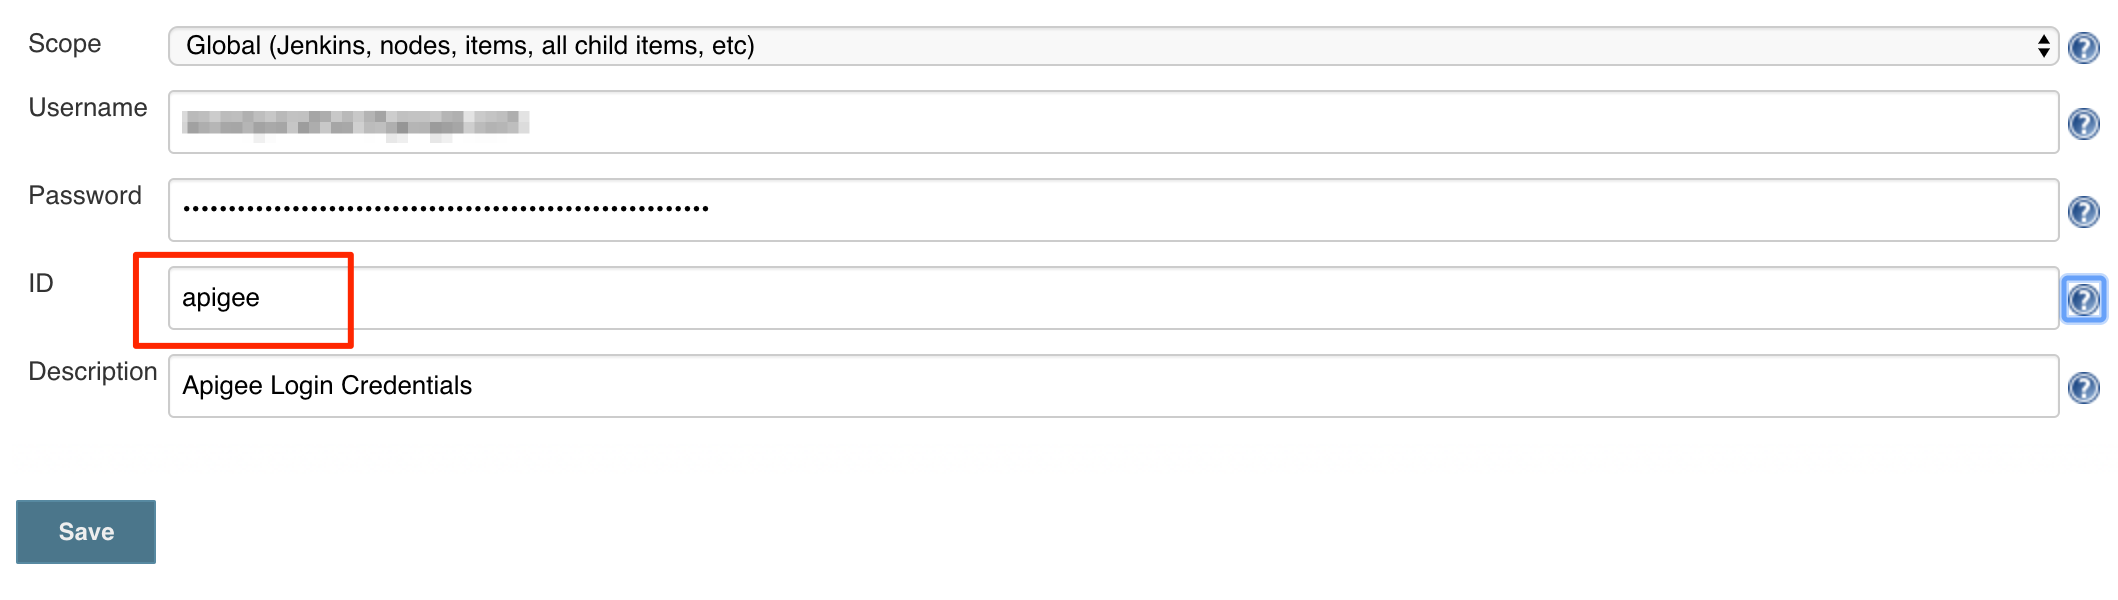
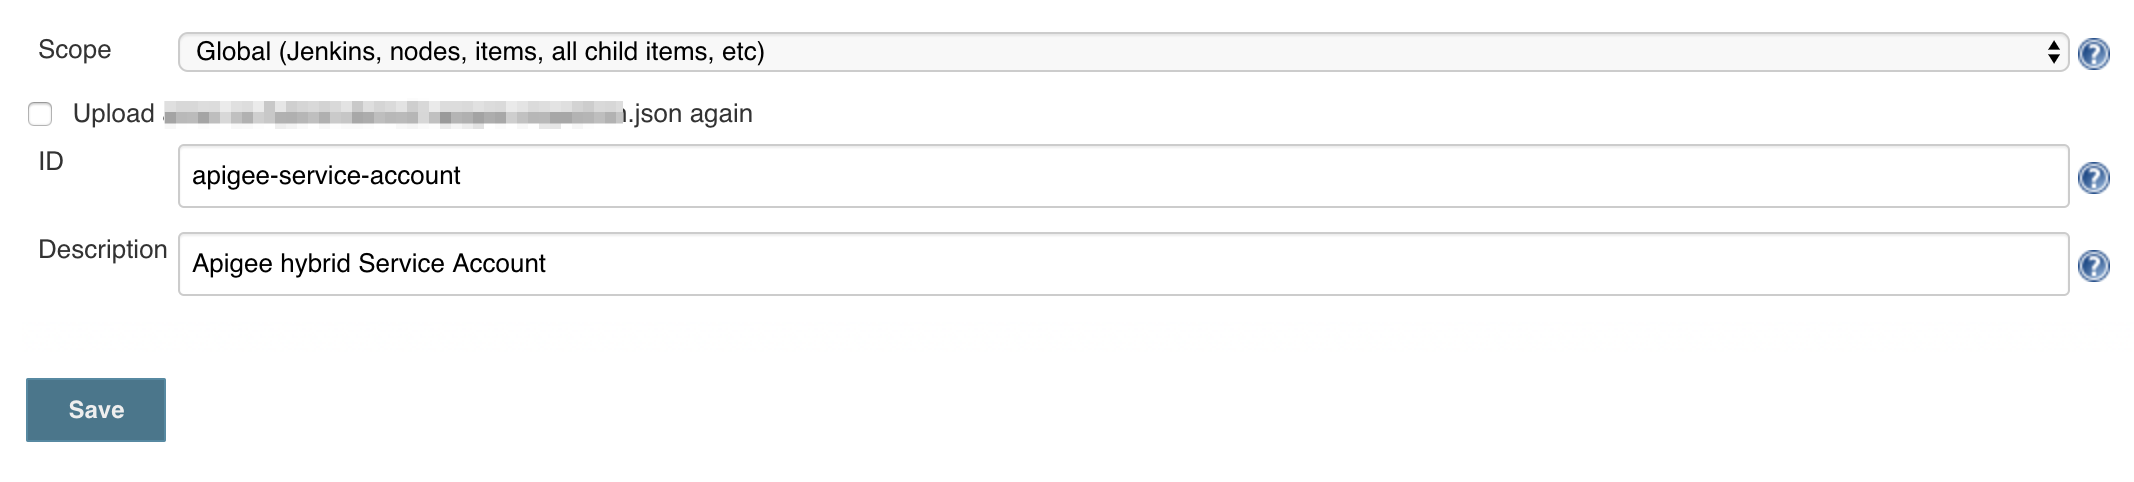
Update

diff --git a/README.md b/README.md
@@ -3,5 +3,5 @@
 - Fork this repo
 - In the [pom file](pom.xml), update the `apigee.org` property under `test` and `prod` POM profile to point to your Apigee org
 - The repo has a Jenkinsfile with the build info, so you can automatically import this repo using the Blue Ocean UI
-- Please configure the Apigee crendetials in Jenkins. The current Jenkinsfile uses `apigee` as the ID. If you wish to change that, please update the Jenkinsfile with the provided ID under the `environment` section - `APIGEE_CREDS = credentials('apigee')`
+- Please configure the Apigee service account crendetials in Jenkins. The current Jenkinsfile uses `apigee-service-account` as the ID. If you wish to change that, please update the Jenkinsfile with the provided ID under the `environment` section - `E_SA_CREDS = credentials('apigee-service-account')`
 ![](./media/apigee-credentials.png)
